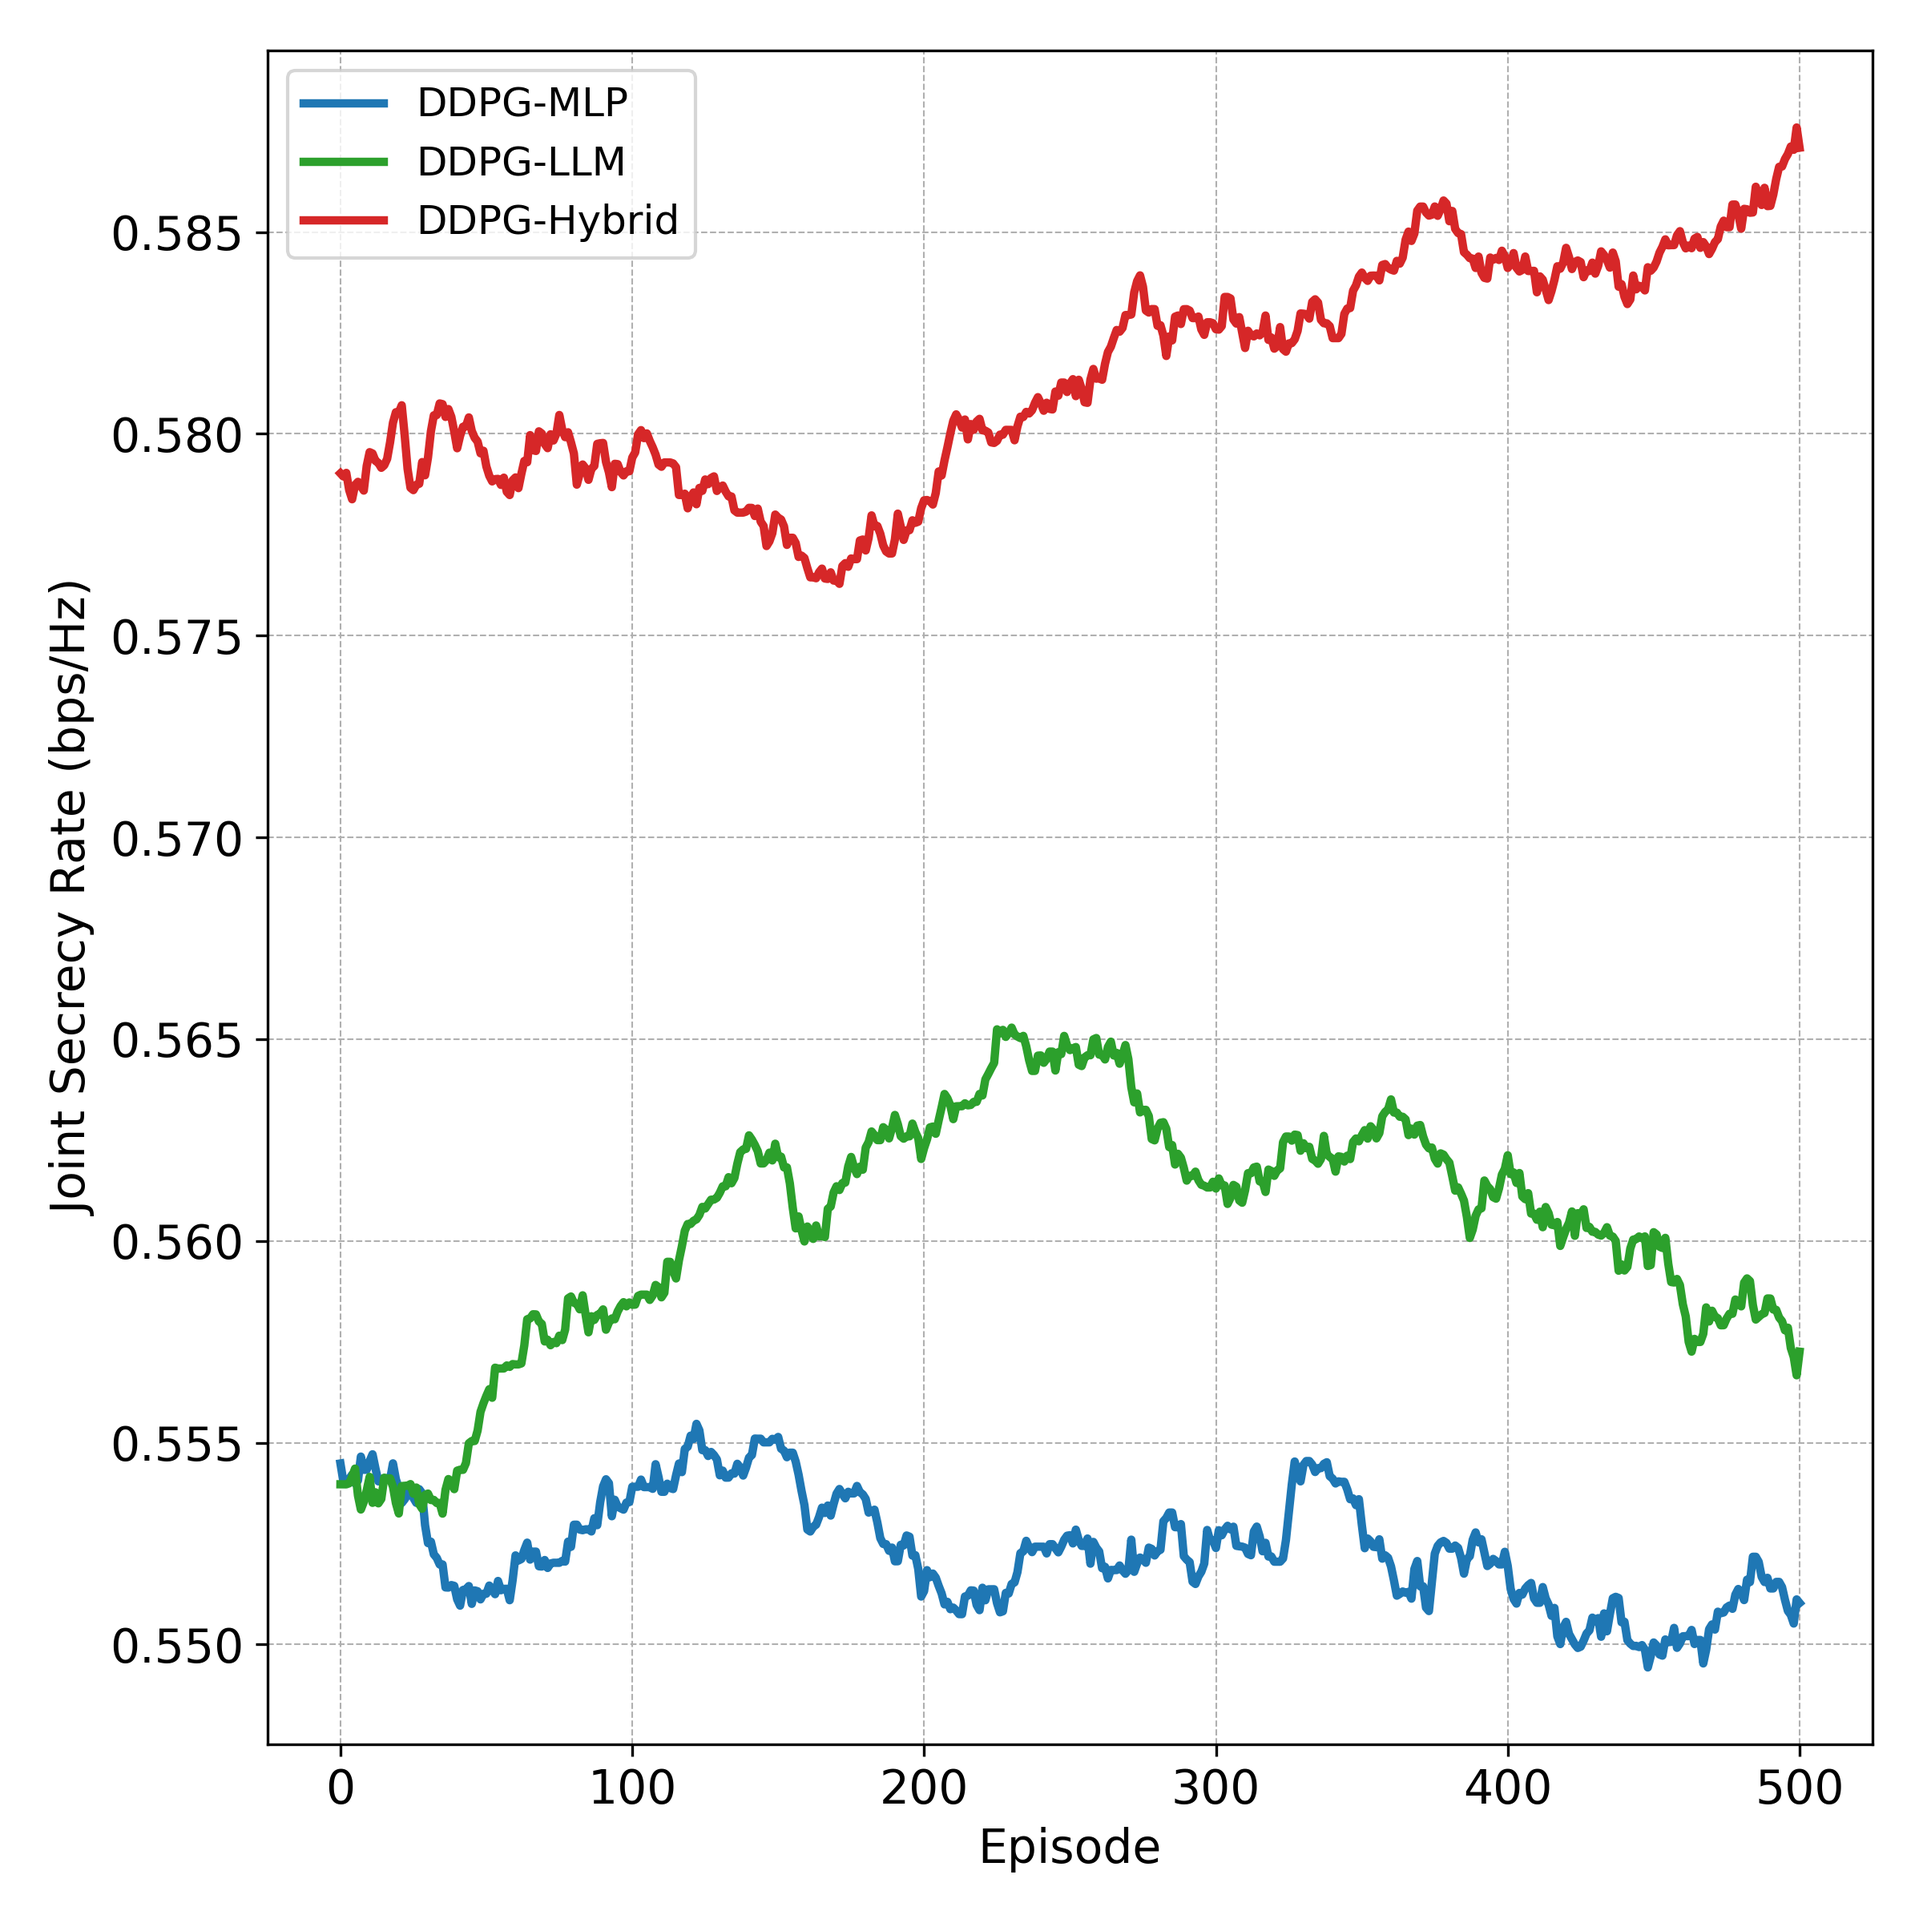
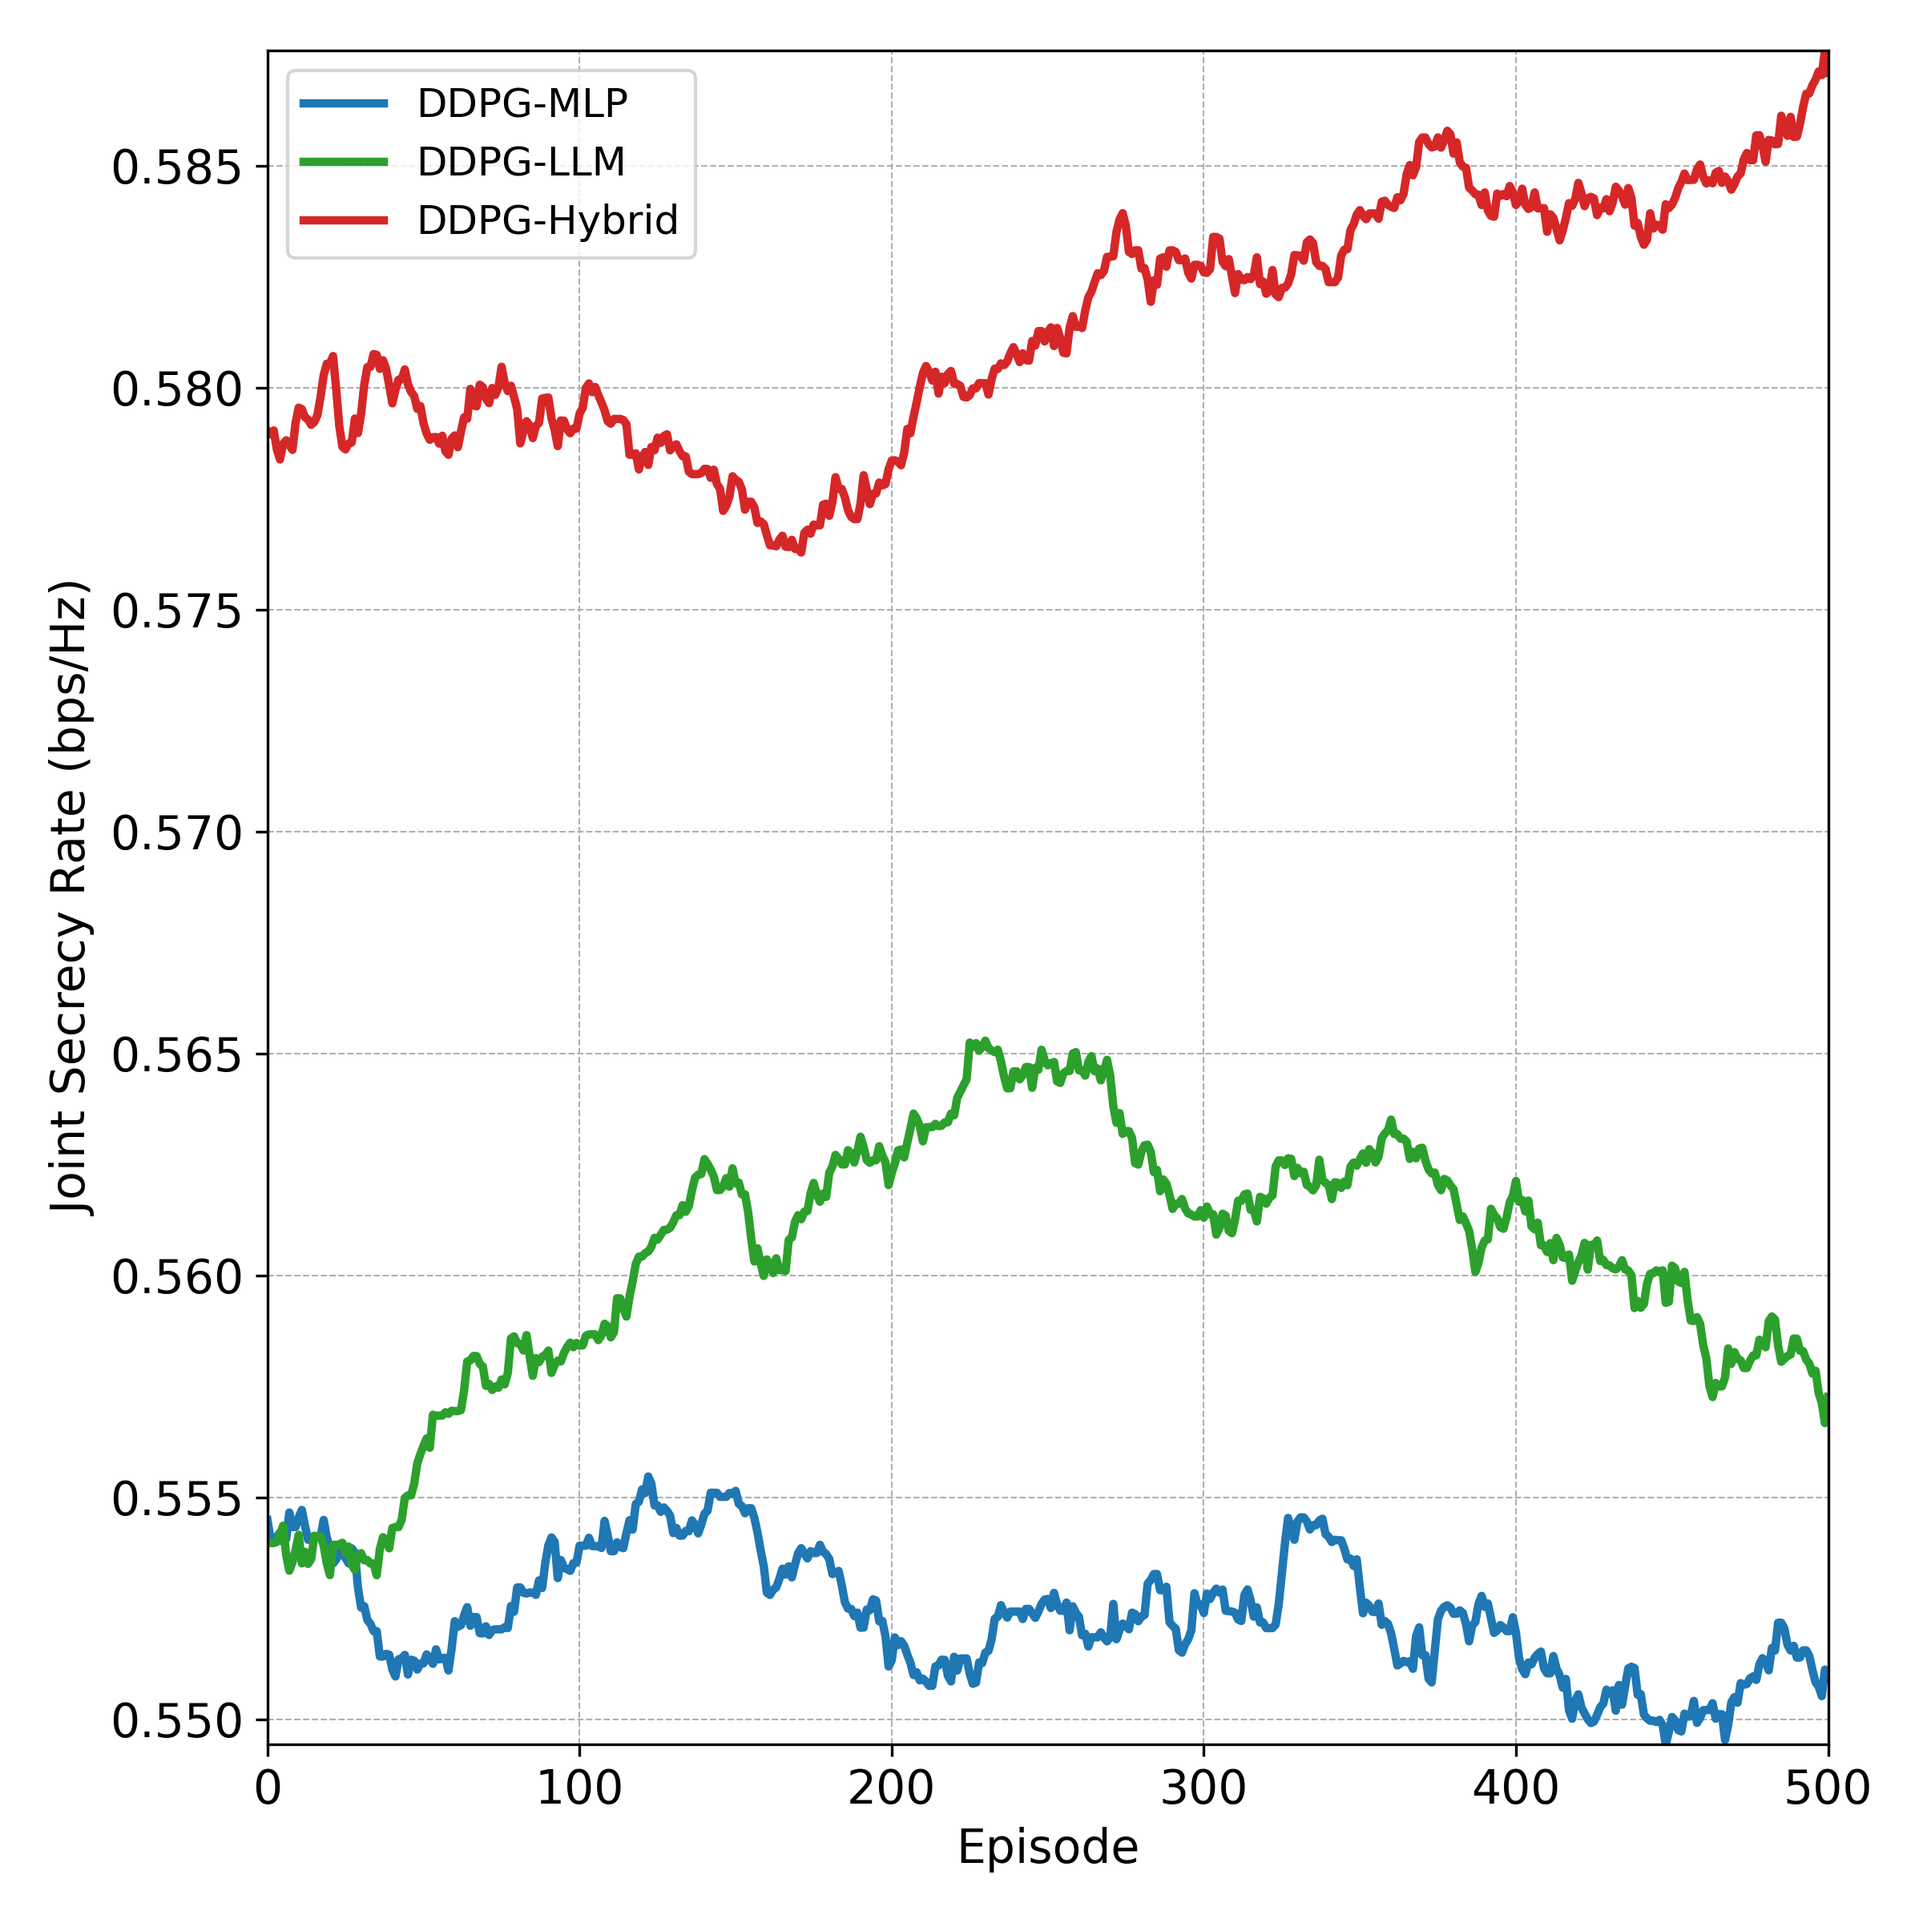
Remove gaps between lines and axes in actor comparison plot - lines now touch axis boundaries

diff --git a/plot_convergence_final.py b/plot_convergence_final.py
@@ -40,6 +40,10 @@ def plot_comparison(save_path='plots/actor_comparison.png'):
     ax.spines['top'].set_visible(True)
     ax.spines['right'].set_visible(True)
     
+    # Remove gaps between lines and axes - make lines touch axis boundaries
+    ax.margins(x=0, y=0)
+    ax.autoscale(tight=True)
+    
     plt.tight_layout()
     # Ensure output directory exists
     os.makedirs(os.path.dirname(save_path) or '.', exist_ok=True)
